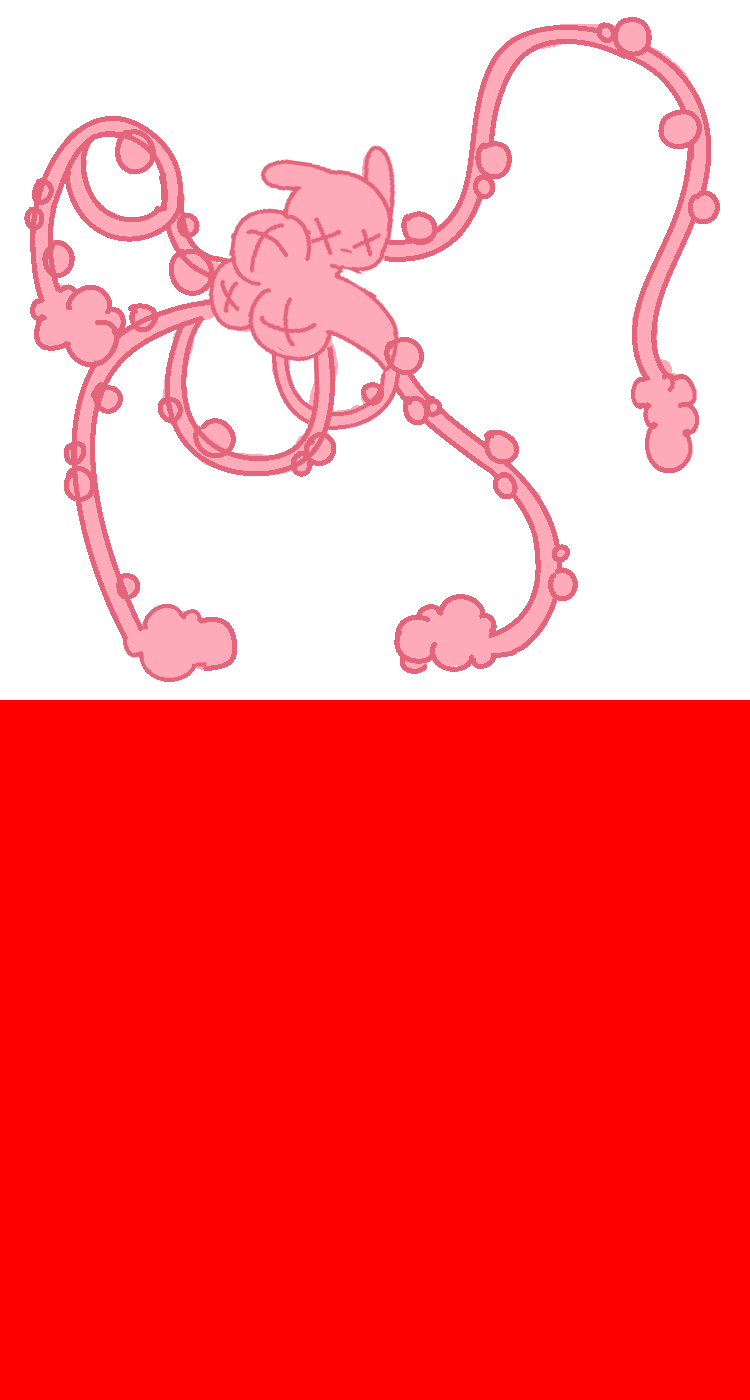
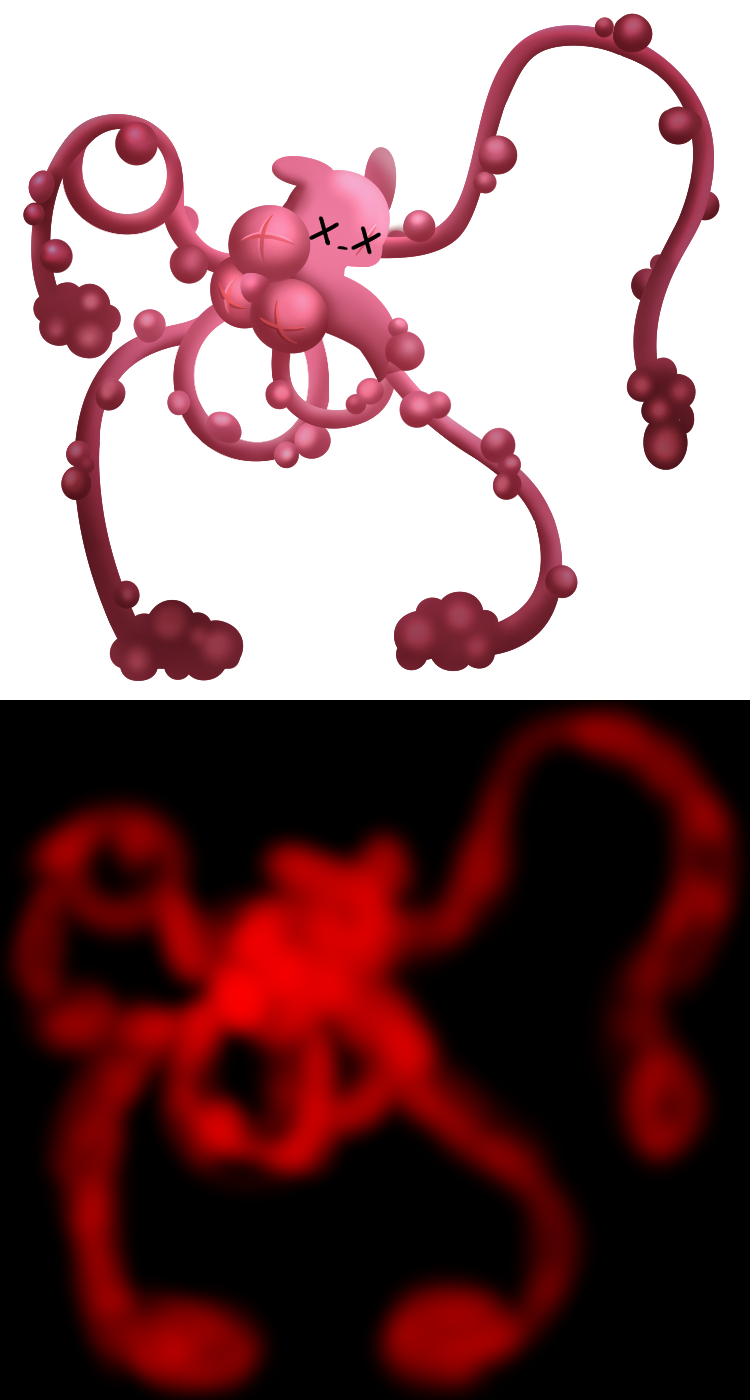
Updated illust & made lancer illust reload

diff --git a/LancerMenu/SelectMenuPatch.cs b/LancerMenu/SelectMenuPatch.cs
@@ -11,6 +11,7 @@ using UnityEngine;
 using static LancerRemix.LancerEnums;
 using static Menu.SlugcatSelectMenu;
 using SlugName = SlugcatStats.Name;
+using SceneID = Menu.MenuScene.SceneID;
 
 namespace LancerRemix.LancerMenu
 {
@@ -241,11 +242,11 @@ namespace LancerRemix.LancerMenu
 
         private static void LancerPortrait(SlugcatPage page)
         {
+            var basis = GetBasis(page.slugcatNumber);
             UpdateEffectColor();
-
+            ReloadScene();
             MoveBehindGUIs();
 
-            var basis = GetBasis(page.slugcatNumber);
             if (basis == SlugName.White)
             {
                 ReplaceIllust(page.slugcatImage, $"scenes{Path.DirectorySeparatorChar}slugcat - lancer",
@@ -275,6 +276,37 @@ namespace LancerRemix.LancerMenu
                 {
                     if (page.markSquare != null) page.markSquare.color = Color.Lerp(page.effectColor, Color.white, 0.7f);
                     if (page.markGlow != null) page.markGlow.color = page.effectColor;
+                }
+            }
+            void ReloadScene()
+            {
+                var sceneID = GetLancerBasisScene();
+                if (page.slugcatImage.sceneID == sceneID) return;
+                page.RemoveSubObject(page.slugcatImage);
+                page.slugcatImage.RemoveSprites(); page.slugcatImage.RemoveSubObject(page.slugcatImage); page.slugcatImage = null;
+                page.slugcatImage = new InteractiveMenuScene(page.menu, page, sceneID);
+
+                SceneID GetLancerBasisScene()
+                {
+                    var res = SceneID.Slugcat_White;
+                    bool ascended = page is LancerPageContinue lpc ? lpc.saveGameData.ascended : false;
+                    if (basis == SlugName.White)
+                    {
+                        if (ascended) res = SceneID.Ghost_White;
+                        else res = SceneID.Slugcat_White;
+                    }
+                    else if (basis == SlugName.Yellow)
+                    {
+                        if (ascended) res = SceneID.Ghost_Yellow;
+                        else res = SceneID.Slugcat_Yellow;
+                    }
+                    else if (basis == SlugName.Red)
+                    {
+                        if (ascended) res = SceneID.Ghost_Red;
+                        else if (page is LancerPageContinue && (page as LancerPageContinue).saveGameData.redsDeath) res = SceneID.Slugcat_Dead_Red;
+                        else res = SceneID.Slugcat_Red;
+                    }
+                    return res;
                 }
             }
             void MoveBehindGUIs()
